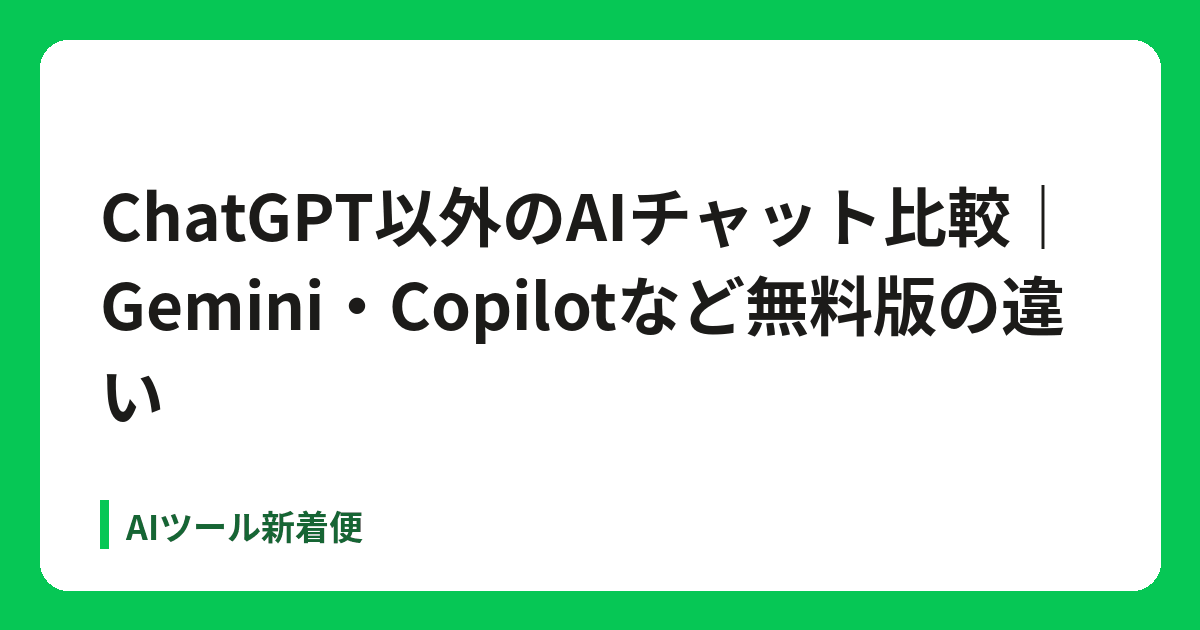
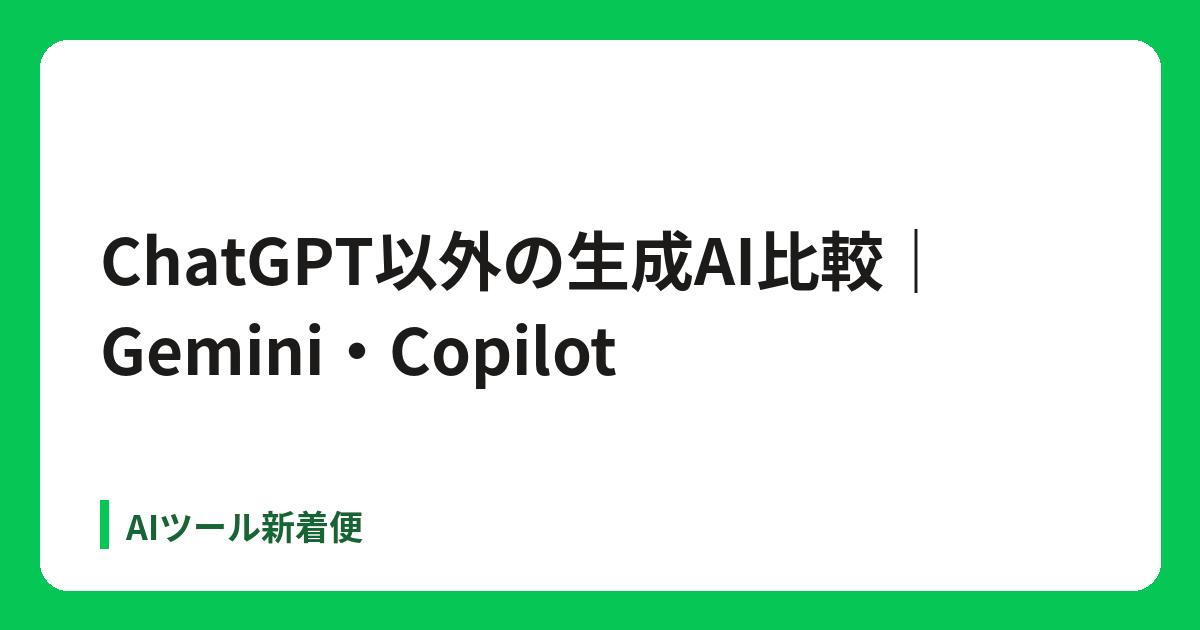
CTR: 検索結果タイトル・説明文をGSCクエリに寄せる
ラクリン評判ほか順位5〜20・0clickページの title/description を更新。
ラクリン工具ページに公式事実のみの「評判について」を追加。

Changed region(s): [[0.0617, 0.3016, 0.8942, 0.6635]]

diff --git a/data/articles.js b/data/articles.js
@@ -65,9 +65,9 @@ module.exports = [
       "gemini",
       "chatgpt"
     ],
-    "title": "GeminiとChatGPTの違い｜無料版の上限と有料プラン",
-    "desc": "GeminiとChatGPTどっちがいい？と迷う人向けに、無料版の上限・画像・Google連携、有料プランの違いを公式料金ページの情報だけで比較しました。申し込み前に最新の料金は公式で確認を。",
-    "body": "<h1>GeminiとChatGPTの違い｜無料版の上限と有料プラン</h1><p class=\"muted\">2026年11月5日にGoogleとOpenAIの公式料金・プランページで確認した内容です。プランの中身や料金は変わることがあるため、申し込み前に最新の料金は公式ページでご確認ください。筆者の使用感ではなく、公式ページに書かれている内容だけをもとにしています。</p>\n<p>「GeminiとChatGPTはどっちがいい？」「無料だとどこまで使える？」「画像は作れる？Googleのサービスと連携したい」といった相談はよくあります。この記事では、<b>無料版でできること・上限の考え方・有料プランの違い・Google連携の有無</b>を、公式のプラン・料金ページをもとに整理します。</p>\n<h2>先に結論：選び方の目安</h2><ul><li><b>無料で回数を気にせず文章のやりとりをしたい、画像も作りたい</b>なら、無料版でもGPT-6のテキストチャットが「無制限（乱用防止の制限あり）」で画像生成もあるChatGPTが候補です。</li><li><b>Gmail・ドキュメント・ドライブなどGoogleのサービスと一緒に使いたい、無料でも画像生成やDeep Researchを試したい</b>なら、無料プランに画像生成・Deep Research・Gemini Liveなどが含まれるGeminiが候補です（使用量は計算量ベースの標準上限）。</li><li><b>長い資料をまとめて読ませたい</b>なら、無料版のコンテキストはGeminiが32,000トークン、ChatGPTのGPT Instantは27K（入力は約12ページ分）です。有料のGemini Pro／Ultraは100万トークンまで広がります。</li><li>どちらも無料で始められるので、同じ質問を両方に投げて比べるのが確実です。</li></ul>\n<h2>無料版の比較表（2026年11月5日 公式で確認）</h2><table><thead><tr><th>項目</th><th>Gemini（無料・AIプランなし）</th><th>ChatGPT（Free）</th></tr></thead><tbody>\n<tr><td>料金</td><td>￥0／月（Googleアカウント）</td><td>無料</td></tr>\n<tr><td>使える量</td><td>標準の上限（計算量ベース）。5時間ごとにリセット（週ごとの上限に達するまで）</td><td>GPT-6でのテキストチャットは無制限（乱用防止の制限あり）。アップロードを含むメッセージは制限あり</td></tr>\n<tr><td>一度に扱える量</td><td>コンテキスト32,000トークン</td><td>GPT Instantはコンテキスト27K、入力は約12ページ分まで</td></tr>\n<tr><td>使えるモデル</td><td>Flash-Lite</td><td>GPT-6 Luna、GPT-5 Thinking Mini など（上位モデルはPlus以上）</td></tr>\n<tr><td>画像の生成</td><td>あり（生成と編集）</td><td>制限あり</td></tr>\n<tr><td>音声での会話</td><td>Gemini Liveあり</td><td>制限あり</td></tr>\n<tr><td>Deep Research</td><td>あり（混雑時は使えない場合あり）</td><td>制限あり</td></tr>\n<tr><td>Google連携</td><td>無料でもGemini Notebook・Flowなど。Gmail／Docsへの組み込みは有料プラン側の案内が中心</td><td>Googleスプレッドシート等向け拡張は制限あり（比較表）</td></tr>\n<tr><td>ストレージ特典</td><td>Gmail・ドライブ・フォト共通15GB</td><td>料金ページにストレージ特典の記載なし</td></tr>\n<tr><td>プログラミング支援</td><td>Canvasなど（アプリ内）</td><td>Codexは制限あり</td></tr>\n</tbody></table>\n<p class=\"muted\">表の「制限あり」は、公式ページに回数などの具体数が示されていないものです。Geminiの1日あたりの質問回数も、公式は回数では示していません。</p>\n<h2>Geminiの無料版でできること</h2><p>日本向けの公式プランページでは、無料プランに次が含まれると書かれています。</p><ul><li>Flash-Liteモデルでのチャット</li><li>画像の生成と編集</li><li>Deep Research、Gemini Live、Canvas、Gem</li><li>Google Flow（Nano Banana Proは制限付き）</li><li>Gemini Notebook</li><li>Gmail・ドライブ・フォト共通の15GBストレージ</li></ul><p>使用量は計算量ベースで、週ごとの上限に達するまで5時間ごとにリセットされます。くわしくは<a href=\"../gemini-muryou-dekirukoto/\">Gemini無料版でできること・上限</a>にもまとめています。</p>\n<h2>ChatGPTの無料版でできること</h2><p>OpenAIの公式料金ページでは、無料版について次のように書かれています。</p><ul><li>GPT-6でのテキストチャットが無制限（乱用防止の制限あり）</li><li>アップロードを含むメッセージ、画像生成、音声での会話、Deep Research、メモリ・コンテキストは制限あり</li><li>Codex、デスクトップのChatGPT Workは制限つきで利用可</li><li>検索、プロジェクトは利用可</li></ul><p>ChatGPTの無料版の詳しい中身は<a href=\"../chatgpt-muryou-dekirukoto/\">ChatGPT無料版でできることと上限</a>にもまとめています。</p>\n<h2>有料プランの違い</h2><table><thead><tr><th>プラン</th><th>料金（公式ページの表記）</th><th>主な違い</th></tr></thead><tbody>\n<tr><td>Google AI Plus</td><td>￥725／月</td><td>無料の2倍の使用量。Flashモデル、動画生成など。コンテキスト128,000トークン。ストレージ400GB。Gemini in Gmail／Vidsなど</td></tr>\n<tr><td>Google AI Pro</td><td>￥2,900／月</td><td>無料の4倍の使用量。Proモデル・Gemini 4 Argon。コンテキスト100万トークン。ストレージ5TB。YouTube Premium Liteなど</td></tr>\n<tr><td>Google AI Ultra</td><td>￥14,500／月（AI Proの5倍）または￥32,000／月（20倍）</td><td>Proの内容に加え最上位の使用量。ストレージ20TB〜。YouTube Premium個人プランなど</td></tr>\n<tr><td>ChatGPT Go</td><td>最新の料金は公式ページでご確認ください</td><td>ツールを使うメッセージ・アップロード・画像生成・音声が増え、メモリが長くなる。広告が表示される場合あり</td></tr>\n<tr><td>ChatGPT Plus</td><td>最新の料金は公式ページでご確認ください</td><td>GPT-6の高度な推論モデル、メッセージ・アップロード・Deep Researchの拡大、プロジェクト・予約タスク・カスタムGPT</td></tr>\n<tr><td>ChatGPT Pro</td><td>最新の料金は公式ページでご確認ください</td><td>利用量に応じて選べる3つのティア。GPT-6 AstraによるPro推論、画像生成は無制限（乱用防止の制限あり）、Deep Research最大</td></tr>\n</tbody></table>\n<p class=\"muted\">ChatGPTの料金ページは、確認時に金額の部分を読み取れなかったため、金額は載せていません。Geminiの日本向け金額は gemini.google/jp/subscriptions/ の表記です。ドル表記や為替・税によって支払額が変わる場合があります。</p>\n<h2>こんな人はGemini、こんな人はChatGPT</h2><ul><li><b>Geminiが向いている人</b>：すでにGoogleアカウントでGmailやドライブを使っていて、同じアカウントでAIも試したい人。無料でも画像生成やDeep Research、声での会話（Gemini Live）を使いたい人。有料でコンテキストを100万トークンまで広げたい人。</li><li><b>ChatGPTが向いている人</b>：無料版で回数を気にせず文章のやりとりをしたい人。画像生成や音声・Deep Research・Codexも1つのアプリで少しずつ試したい人。</li></ul>\n<h2>向いていない人と代わりの選択肢</h2><ul><li><b>Geminiの無料版が向いていない人</b>：回数を気にせず長時間チャットしたい人は、計算量ベースの標準上限に届きやすくなります。無料でテキストチャットを無制限に近い形で使いたいならChatGPT無料版、または<a href=\"../claude-chatgpt-muryou-chigai/\">ClaudeとChatGPTの違い</a>も参考にしてください。</li><li><b>ChatGPTの無料版が向いていない人</b>：長いPDFをそのまま読ませたい人は、無料版の入力上限（約12ページ分）に注意が必要です。手元の資料の中身だけをもとに要約・質問したいなら<a href=\"../notebooklm-chatgpt-youyaku-hikaku/\">NotebookLMとChatGPTの要約比較</a>を参考にしてください。</li><li><b>どちらも合わない人</b>：無料で使えるAIを広く見たい場合は<a href=\"../muryou-ai-tool-ichiran/\">無料で使えるAIツール一覧</a>をどうぞ。</li></ul>\n<h2>無料版を使うときの注意点</h2><ul><li>AIの答えには誤りが含まれることがあります。数字・固有名詞・日付は元の資料や公式情報で確かめてから使いましょう。</li><li>仕事の資料を入れる前に、学習への利用設定やアカウントの種類（個人／仕事用）を確認しましょう。</li><li>無料版の上限や使えるモデルは、予告なく変わることがあります。</li></ul>\n<h2>関連記事</h2><p><a href=\"../gemini-muryou-dekirukoto/\">Gemini無料版でできること・上限</a>／<a href=\"../chatgpt-muryou-dekirukoto/\">ChatGPT無料版でできることと上限</a>／<a href=\"../claude-chatgpt-muryou-chigai/\">ClaudeとChatGPTの違い</a>／<a href=\"../notebooklm-chatgpt-youyaku-hikaku/\">NotebookLMとChatGPTの要約比較</a>／<a href=\"../muryou-ai-tool-ichiran/\">無料で使えるAIツール一覧</a>／<a href=\"../../tools/gemini/\">Geminiのツールページ</a>／<a href=\"../../tools/chatgpt/\">ChatGPTのツールページ</a></p>\n<h2>出典（公式・2026年11月5日確認）</h2><pre><code>https://gemini.google/jp/subscriptions/\nhttps://gemini.google/subscriptions/\nhttps://support.google.com/gemini/answer/16275805?hl=ja\nhttps://chatgpt.com/pricing/\nhttps://openai.com/ja-JP/chatgpt/pricing/</code></pre>"
+    "title": "GeminiとChatGPTの無料の違い｜上限とできること",
+    "desc": "GeminiとChatGPTの無料版の違いを公式料金ページだけで整理。無料の上限、画像生成、Google連携、有料プランの差が分かります。申し込み前に最新の料金は公式で確認を。",
+    "body": "<h1>GeminiとChatGPTの無料の違い｜上限とできること</h1><p class=\"muted\">2026年11月5日にGoogleとOpenAIの公式料金・プランページで確認した内容です。プランの中身や料金は変わることがあるため、申し込み前に最新の料金は公式ページでご確認ください。筆者の使用感ではなく、公式ページに書かれている内容だけをもとにしています。</p>\n<p>「GeminiとChatGPTはどっちがいい？」「無料だとどこまで使える？」「画像は作れる？Googleのサービスと連携したい」といった相談はよくあります。この記事では、<b>無料版でできること・上限の考え方・有料プランの違い・Google連携の有無</b>を、公式のプラン・料金ページをもとに整理します。</p>\n<h2>先に結論：選び方の目安</h2><ul><li><b>無料で回数を気にせず文章のやりとりをしたい、画像も作りたい</b>なら、無料版でもGPT-6のテキストチャットが「無制限（乱用防止の制限あり）」で画像生成もあるChatGPTが候補です。</li><li><b>Gmail・ドキュメント・ドライブなどGoogleのサービスと一緒に使いたい、無料でも画像生成やDeep Researchを試したい</b>なら、無料プランに画像生成・Deep Research・Gemini Liveなどが含まれるGeminiが候補です（使用量は計算量ベースの標準上限）。</li><li><b>長い資料をまとめて読ませたい</b>なら、無料版のコンテキストはGeminiが32,000トークン、ChatGPTのGPT Instantは27K（入力は約12ページ分）です。有料のGemini Pro／Ultraは100万トークンまで広がります。</li><li>どちらも無料で始められるので、同じ質問を両方に投げて比べるのが確実です。</li></ul>\n<h2>無料版の比較表（2026年11月5日 公式で確認）</h2><table><thead><tr><th>項目</th><th>Gemini（無料・AIプランなし）</th><th>ChatGPT（Free）</th></tr></thead><tbody>\n<tr><td>料金</td><td>￥0／月（Googleアカウント）</td><td>無料</td></tr>\n<tr><td>使える量</td><td>標準の上限（計算量ベース）。5時間ごとにリセット（週ごとの上限に達するまで）</td><td>GPT-6でのテキストチャットは無制限（乱用防止の制限あり）。アップロードを含むメッセージは制限あり</td></tr>\n<tr><td>一度に扱える量</td><td>コンテキスト32,000トークン</td><td>GPT Instantはコンテキスト27K、入力は約12ページ分まで</td></tr>\n<tr><td>使えるモデル</td><td>Flash-Lite</td><td>GPT-6 Luna、GPT-5 Thinking Mini など（上位モデルはPlus以上）</td></tr>\n<tr><td>画像の生成</td><td>あり（生成と編集）</td><td>制限あり</td></tr>\n<tr><td>音声での会話</td><td>Gemini Liveあり</td><td>制限あり</td></tr>\n<tr><td>Deep Research</td><td>あり（混雑時は使えない場合あり）</td><td>制限あり</td></tr>\n<tr><td>Google連携</td><td>無料でもGemini Notebook・Flowなど。Gmail／Docsへの組み込みは有料プラン側の案内が中心</td><td>Googleスプレッドシート等向け拡張は制限あり（比較表）</td></tr>\n<tr><td>ストレージ特典</td><td>Gmail・ドライブ・フォト共通15GB</td><td>料金ページにストレージ特典の記載なし</td></tr>\n<tr><td>プログラミング支援</td><td>Canvasなど（アプリ内）</td><td>Codexは制限あり</td></tr>\n</tbody></table>\n<p class=\"muted\">表の「制限あり」は、公式ページに回数などの具体数が示されていないものです。Geminiの1日あたりの質問回数も、公式は回数では示していません。</p>\n<h2>Geminiの無料版でできること</h2><p>日本向けの公式プランページでは、無料プランに次が含まれると書かれています。</p><ul><li>Flash-Liteモデルでのチャット</li><li>画像の生成と編集</li><li>Deep Research、Gemini Live、Canvas、Gem</li><li>Google Flow（Nano Banana Proは制限付き）</li><li>Gemini Notebook</li><li>Gmail・ドライブ・フォト共通の15GBストレージ</li></ul><p>使用量は計算量ベースで、週ごとの上限に達するまで5時間ごとにリセットされます。くわしくは<a href=\"../gemini-muryou-dekirukoto/\">Gemini無料版でできること・上限</a>にもまとめています。</p>\n<h2>ChatGPTの無料版でできること</h2><p>OpenAIの公式料金ページでは、無料版について次のように書かれています。</p><ul><li>GPT-6でのテキストチャットが無制限（乱用防止の制限あり）</li><li>アップロードを含むメッセージ、画像生成、音声での会話、Deep Research、メモリ・コンテキストは制限あり</li><li>Codex、デスクトップのChatGPT Workは制限つきで利用可</li><li>検索、プロジェクトは利用可</li></ul><p>ChatGPTの無料版の詳しい中身は<a href=\"../chatgpt-muryou-dekirukoto/\">ChatGPT無料版でできることと上限</a>にもまとめています。</p>\n<h2>有料プランの違い</h2><table><thead><tr><th>プラン</th><th>料金（公式ページの表記）</th><th>主な違い</th></tr></thead><tbody>\n<tr><td>Google AI Plus</td><td>￥725／月</td><td>無料の2倍の使用量。Flashモデル、動画生成など。コンテキスト128,000トークン。ストレージ400GB。Gemini in Gmail／Vidsなど</td></tr>\n<tr><td>Google AI Pro</td><td>￥2,900／月</td><td>無料の4倍の使用量。Proモデル・Gemini 4 Argon。コンテキスト100万トークン。ストレージ5TB。YouTube Premium Liteなど</td></tr>\n<tr><td>Google AI Ultra</td><td>￥14,500／月（AI Proの5倍）または￥32,000／月（20倍）</td><td>Proの内容に加え最上位の使用量。ストレージ20TB〜。YouTube Premium個人プランなど</td></tr>\n<tr><td>ChatGPT Go</td><td>最新の料金は公式ページでご確認ください</td><td>ツールを使うメッセージ・アップロード・画像生成・音声が増え、メモリが長くなる。広告が表示される場合あり</td></tr>\n<tr><td>ChatGPT Plus</td><td>最新の料金は公式ページでご確認ください</td><td>GPT-6の高度な推論モデル、メッセージ・アップロード・Deep Researchの拡大、プロジェクト・予約タスク・カスタムGPT</td></tr>\n<tr><td>ChatGPT Pro</td><td>最新の料金は公式ページでご確認ください</td><td>利用量に応じて選べる3つのティア。GPT-6 AstraによるPro推論、画像生成は無制限（乱用防止の制限あり）、Deep Research最大</td></tr>\n</tbody></table>\n<p class=\"muted\">ChatGPTの料金ページは、確認時に金額の部分を読み取れなかったため、金額は載せていません。Geminiの日本向け金額は gemini.google/jp/subscriptions/ の表記です。ドル表記や為替・税によって支払額が変わる場合があります。</p>\n<h2>こんな人はGemini、こんな人はChatGPT</h2><ul><li><b>Geminiが向いている人</b>：すでにGoogleアカウントでGmailやドライブを使っていて、同じアカウントでAIも試したい人。無料でも画像生成やDeep Research、声での会話（Gemini Live）を使いたい人。有料でコンテキストを100万トークンまで広げたい人。</li><li><b>ChatGPTが向いている人</b>：無料版で回数を気にせず文章のやりとりをしたい人。画像生成や音声・Deep Research・Codexも1つのアプリで少しずつ試したい人。</li></ul>\n<h2>向いていない人と代わりの選択肢</h2><ul><li><b>Geminiの無料版が向いていない人</b>：回数を気にせず長時間チャットしたい人は、計算量ベースの標準上限に届きやすくなります。無料でテキストチャットを無制限に近い形で使いたいならChatGPT無料版、または<a href=\"../claude-chatgpt-muryou-chigai/\">ClaudeとChatGPTの違い</a>も参考にしてください。</li><li><b>ChatGPTの無料版が向いていない人</b>：長いPDFをそのまま読ませたい人は、無料版の入力上限（約12ページ分）に注意が必要です。手元の資料の中身だけをもとに要約・質問したいなら<a href=\"../notebooklm-chatgpt-youyaku-hikaku/\">NotebookLMとChatGPTの要約比較</a>を参考にしてください。</li><li><b>どちらも合わない人</b>：無料で使えるAIを広く見たい場合は<a href=\"../muryou-ai-tool-ichiran/\">無料で使えるAIツール一覧</a>をどうぞ。</li></ul>\n<h2>無料版を使うときの注意点</h2><ul><li>AIの答えには誤りが含まれることがあります。数字・固有名詞・日付は元の資料や公式情報で確かめてから使いましょう。</li><li>仕事の資料を入れる前に、学習への利用設定やアカウントの種類（個人／仕事用）を確認しましょう。</li><li>無料版の上限や使えるモデルは、予告なく変わることがあります。</li></ul>\n<h2>関連記事</h2><p><a href=\"../gemini-muryou-dekirukoto/\">Gemini無料版でできること・上限</a>／<a href=\"../chatgpt-muryou-dekirukoto/\">ChatGPT無料版でできることと上限</a>／<a href=\"../claude-chatgpt-muryou-chigai/\">ClaudeとChatGPTの違い</a>／<a href=\"../notebooklm-chatgpt-youyaku-hikaku/\">NotebookLMとChatGPTの要約比較</a>／<a href=\"../muryou-ai-tool-ichiran/\">無料で使えるAIツール一覧</a>／<a href=\"../../tools/gemini/\">Geminiのツールページ</a>／<a href=\"../../tools/chatgpt/\">ChatGPTのツールページ</a></p>\n<h2>出典（公式・2026年11月5日確認）</h2><pre><code>https://gemini.google/jp/subscriptions/\nhttps://gemini.google/subscriptions/\nhttps://support.google.com/gemini/answer/16275805?hl=ja\nhttps://chatgpt.com/pricing/\nhttps://openai.com/ja-JP/chatgpt/pricing/</code></pre>"
   },
   {
     "slug": "ai-onsei-deepfake-sagi-miwakekata",
@@ -545,10 +545,10 @@ module.exports = [
       "chatgpt"
     ],
     "date": "2026-10-20",
-    "title": "ChatGPT以外のAIチャット比較｜Gemini・Copilotなど無料版の違い",
+    "title": "ChatGPT以外の生成AI比較｜Gemini・Copilot",
     "updated": "2026-10-30",
-    "desc": "ChatGPTの代わりやセカンドオピニオンに使えるAIを、公式サイトで確認した無料版・有料プラン・日本語対応で比較。調べもの、資料の読み込み、Office連携など目的別の選び方を紹介します。",
-    "body": "<h1>ChatGPT以外のAIチャット比較：無料版と使い分け</h1><p class=\"muted\">更新日：2026年10月20日。料金・機能は2026年10月16〜20日に各公式サイトで確認した内容です（当サイトの各ツールページの「情報確認日」も参照）。変更されることがあるため、申し込み前に必ず公式サイトをご確認ください。</p>\n<p>「ChatGPT 代わり」「ChatGPT 以外」で探す人向けに、無料で始められるAIを目的別に整理しました。1つに絞るより、<b>得意分野で使い分ける</b>のがおすすめです。</p>\n<h2>比較表</h2><table><tr><th>ツール</th><td><b>無料版</b>／<b>有料の例</b>／<b>日本語</b>／<b>向いている使い方</b></td></tr>\n<tr><th><a href=\"../../tools/chatgpt/\">ChatGPT</a>（参考）</th><td>無料版あり／Go・Plus・Pro（最新の料金は公式ページでご確認ください）／日本語の公式料金ページあり／汎用</td></tr>\n<tr><th><a href=\"../../tools/gemini/\">Google Gemini</a></th><td>無料（￥0）／Google AI Plus ￥725・Pro ￥2,900・Ultra ￥14,500〜（月額）／日本語の料金ページあり／Googleサービスと一緒に使う、文章の下書き</td></tr>\n<tr><th><a href=\"../../tools/copilot/\">Microsoft Copilot</a></th><td>無料版あり／Copilot付きMicrosoft 365 Personal ¥2,130（月額）ほか／日本語の公式ページあり／WordやExcelなどOfficeと一緒に使う</td></tr>\n<tr><th><a href=\"../../tools/felo/\">Felo</a></th><td>無料で使える旨の表記あり／有料 月額2,099円（年払い20,998円）／対応（日本語の公式サイト・円表示）／出典つきの調べもの</td></tr>\n<tr><th><a href=\"../../tools/genspark/\">Genspark</a></th><td>無料で試せる旨の表記あり／有料プランの金額は最新の料金を公式ページでご確認ください／対応（日本語の公式サイト）／調べものや資料作りをまとめて任せる</td></tr>\n<tr><th><a href=\"../../tools/notebooklm/\">NotebookLM</a></th><td>無料（1ノートブックあたりソース50件まで）／Google AI Plus・Pro・Ultraで上限拡大／日本語の公式ページあり／手持ちのPDFや資料を読み込ませて質問</td></tr>\n<tr><th><a href=\"../../tools/sarashina-service/\">Sarashina（無償ベータ）</a></th><td>無償ベータ版（レート制限あり）／有料の料金は公式サイトに記載なし／国産・日本語の公式発表／国産AIを試したい</td></tr></table>\n<h2>用途別の早見表：どれに決めるか</h2><p class=\"muted\">表の内容は、この記事で2026年10月16〜20日に各公式サイトで確認した情報にもとづきます。</p><table><thead><tr><th>やりたいこと</th><th>おすすめ</th><th>理由</th></tr></thead><tbody><tr><td>出典つきで調べものをしたい</td><td><a href=\"../../tools/felo/\">Felo</a></td><td>無料で使える旨の表記があり、出典つきの調べものに向いています。</td></tr><tr><td>自分のPDFや資料について質問したい</td><td><a href=\"../../tools/notebooklm/\">NotebookLM</a></td><td>無料で1ノートブックあたりソース50件まで資料を読み込んで質問できます。</td></tr><tr><td>Gmail・GoogleドキュメントなどGoogle中心で使いたい</td><td><a href=\"../../tools/gemini/\">Google Gemini</a></td><td>無料（￥0）で始められ、Googleサービスと一緒に使えます。</td></tr><tr><td>Word・Excel・PowerPointと一緒に使いたい</td><td><a href=\"../../tools/copilot/\">Microsoft Copilot</a></td><td>無料版があり、Officeと一緒に使う用途に向いています。</td></tr><tr><td>調べものや資料作りをまとめて任せたい</td><td><a href=\"../../tools/genspark/\">Genspark</a></td><td>無料で試せる旨の表記があり、調べものと資料作りをまとめて任せられます。</td></tr><tr><td>国産のAIを試したい</td><td><a href=\"../../tools/sarashina-service/\">Sarashina</a></td><td>無償ベータ版が公開されています（レート制限あり）。</td></tr></tbody></table><h2>目的別の選び方</h2><ul><li><b>調べものの答えに出典がほしい</b>：Felo</li><li><b>自分の資料（PDF・議事録）について質問したい</b>：NotebookLM</li><li><b>Gmail・GoogleドキュメントなどGoogle中心</b>：Gemini</li><li><b>Word・Excel・PowerPoint中心</b>：Copilot</li><li><b>国産AIを試したい</b>：Sarashina</li></ul>\n<h2>使い方のコツ</h2><ol><li>同じ質問を2つのAIに聞き、答えが違うところだけ一次情報（公式サイトなど）で確かめると、誤りに気づきやすくなります。</li><li>「誰向けに・何文字で・箇条書きで」など、出力の形を指定します。</li><li>長い資料は、全文を貼るよりNotebookLMのように資料を読み込むツールが向いています。</li></ol>\n<h2>注意点</h2><ul><li>AIの回答には誤りが含まれることがあります。数字・日付・法律・医療などは必ず一次情報で確認してください。</li><li>仕事の機密情報を入力する前に、各社のデータの扱い（学習への利用の有無、法人向けプランの条件）を確認してください。</li><li>無料版の回数制限や使えるモデルは予告なく変わることがあります。</li></ul>\n<h2>関連</h2><p><a href=\"../notebooklm-muryou-jougen/\">NotebookLM（Gemini Notebook）無料版の上限</a>／<a href=\"../../tools/japan-ai-search-3/\">JAPAN AI Search 3.0のツールページ</a>／<a href=\"../../category/%E3%83%81%E3%83%A3%E3%83%83%E3%83%88AI/\">チャットAIの一覧</a>／<a href=\"../../category/%E3%83%AA%E3%82%B5%E3%83%BC%E3%83%81/\">リサーチのAIツール一覧</a>／<a href=\"../muryou-ai-tool-ichiran/\">無料で使えるAIツール一覧</a>／<a href=\"../chatgpt-muryou-dekirukoto/\">ChatGPT無料版でできること</a>／<a href=\"../gemini-muryou-dekirukoto/\">Gemini無料版の上限</a>／<a href=\"../claude-haiku-5-5/\">Claude Haiku 5.5の料金とできること</a></p>\n<p>記事やブログを書くのが目的なら<a href=\"../ai-writing-tool-hikaku/\">AIライティングツール比較</a>も参考にしてください。</p><p>仕事で複数のAIモデルを1つの画面で使い分けたい場合は、執筆・リサーチ・議事録・翻訳をまとめた<a href=\"../../tools/doraverse/\">Doraverse</a>もあります（14日間の無料トライアルあり）。</p><h2>この記事の更新履歴</h2><ul><li>2026年10月16〜20日：各公式サイトで料金・機能を確認して公開</li><li>2026年10月30日：用途別の早見表と、この更新履歴を追加</li></ul><h2>出典（公式）</h2><ul><li><a href=\"https://gemini.google.com\" rel=\"noopener\">https://gemini.google.com</a></li><li><a href=\"https://copilot.microsoft.com\" rel=\"noopener\">https://copilot.microsoft.com</a></li><li><a href=\"https://www.felo.ai\" rel=\"noopener\">https://www.felo.ai</a></li><li><a href=\"https://www.genspark.ai\" rel=\"noopener\">https://www.genspark.ai</a></li><li><a href=\"https://notebooklm.google\" rel=\"noopener\">https://notebooklm.google</a></li><li><a href=\"https://chatgpt.com\" rel=\"noopener\">https://chatgpt.com</a></li><li><a href=\"https://www.sbintuitions.co.jp/news/press/20261013_01/\" rel=\"noopener\">https://www.sbintuitions.co.jp/news/press/20261013_01/</a></li></ul>"
+    "desc": "ChatGPT以外の生成AI（Gemini・Copilot・Felo・NotebookLMなど）を、公式の無料版・有料プラン・日本語対応で比較。調べもの・資料読み込み・Office連携など目的別の選び方。",
+    "body": "<h1>ChatGPT以外の生成AI比較：無料版と使い分け</h1><p class=\"muted\">更新日：2026年10月20日。料金・機能は2026年10月16〜20日に各公式サイトで確認した内容です（当サイトの各ツールページの「情報確認日」も参照）。変更されることがあるため、申し込み前に必ず公式サイトをご確認ください。</p>\n<p>「ChatGPT 代わり」「ChatGPT 以外」で探す人向けに、無料で始められるAIを目的別に整理しました。1つに絞るより、<b>得意分野で使い分ける</b>のがおすすめです。</p>\n<h2>比較表</h2><table><tr><th>ツール</th><td><b>無料版</b>／<b>有料の例</b>／<b>日本語</b>／<b>向いている使い方</b></td></tr>\n<tr><th><a href=\"../../tools/chatgpt/\">ChatGPT</a>（参考）</th><td>無料版あり／Go・Plus・Pro（最新の料金は公式ページでご確認ください）／日本語の公式料金ページあり／汎用</td></tr>\n<tr><th><a href=\"../../tools/gemini/\">Google Gemini</a></th><td>無料（￥0）／Google AI Plus ￥725・Pro ￥2,900・Ultra ￥14,500〜（月額）／日本語の料金ページあり／Googleサービスと一緒に使う、文章の下書き</td></tr>\n<tr><th><a href=\"../../tools/copilot/\">Microsoft Copilot</a></th><td>無料版あり／Copilot付きMicrosoft 365 Personal ¥2,130（月額）ほか／日本語の公式ページあり／WordやExcelなどOfficeと一緒に使う</td></tr>\n<tr><th><a href=\"../../tools/felo/\">Felo</a></th><td>無料で使える旨の表記あり／有料 月額2,099円（年払い20,998円）／対応（日本語の公式サイト・円表示）／出典つきの調べもの</td></tr>\n<tr><th><a href=\"../../tools/genspark/\">Genspark</a></th><td>無料で試せる旨の表記あり／有料プランの金額は最新の料金を公式ページでご確認ください／対応（日本語の公式サイト）／調べものや資料作りをまとめて任せる</td></tr>\n<tr><th><a href=\"../../tools/notebooklm/\">NotebookLM</a></th><td>無料（1ノートブックあたりソース50件まで）／Google AI Plus・Pro・Ultraで上限拡大／日本語の公式ページあり／手持ちのPDFや資料を読み込ませて質問</td></tr>\n<tr><th><a href=\"../../tools/sarashina-service/\">Sarashina（無償ベータ）</a></th><td>無償ベータ版（レート制限あり）／有料の料金は公式サイトに記載なし／国産・日本語の公式発表／国産AIを試したい</td></tr></table>\n<h2>用途別の早見表：どれに決めるか</h2><p class=\"muted\">表の内容は、この記事で2026年10月16〜20日に各公式サイトで確認した情報にもとづきます。</p><table><thead><tr><th>やりたいこと</th><th>おすすめ</th><th>理由</th></tr></thead><tbody><tr><td>出典つきで調べものをしたい</td><td><a href=\"../../tools/felo/\">Felo</a></td><td>無料で使える旨の表記があり、出典つきの調べものに向いています。</td></tr><tr><td>自分のPDFや資料について質問したい</td><td><a href=\"../../tools/notebooklm/\">NotebookLM</a></td><td>無料で1ノートブックあたりソース50件まで資料を読み込んで質問できます。</td></tr><tr><td>Gmail・GoogleドキュメントなどGoogle中心で使いたい</td><td><a href=\"../../tools/gemini/\">Google Gemini</a></td><td>無料（￥0）で始められ、Googleサービスと一緒に使えます。</td></tr><tr><td>Word・Excel・PowerPointと一緒に使いたい</td><td><a href=\"../../tools/copilot/\">Microsoft Copilot</a></td><td>無料版があり、Officeと一緒に使う用途に向いています。</td></tr><tr><td>調べものや資料作りをまとめて任せたい</td><td><a href=\"../../tools/genspark/\">Genspark</a></td><td>無料で試せる旨の表記があり、調べものと資料作りをまとめて任せられます。</td></tr><tr><td>国産のAIを試したい</td><td><a href=\"../../tools/sarashina-service/\">Sarashina</a></td><td>無償ベータ版が公開されています（レート制限あり）。</td></tr></tbody></table><h2>目的別の選び方</h2><ul><li><b>調べものの答えに出典がほしい</b>：Felo</li><li><b>自分の資料（PDF・議事録）について質問したい</b>：NotebookLM</li><li><b>Gmail・GoogleドキュメントなどGoogle中心</b>：Gemini</li><li><b>Word・Excel・PowerPoint中心</b>：Copilot</li><li><b>国産AIを試したい</b>：Sarashina</li></ul>\n<h2>使い方のコツ</h2><ol><li>同じ質問を2つのAIに聞き、答えが違うところだけ一次情報（公式サイトなど）で確かめると、誤りに気づきやすくなります。</li><li>「誰向けに・何文字で・箇条書きで」など、出力の形を指定します。</li><li>長い資料は、全文を貼るよりNotebookLMのように資料を読み込むツールが向いています。</li></ol>\n<h2>注意点</h2><ul><li>AIの回答には誤りが含まれることがあります。数字・日付・法律・医療などは必ず一次情報で確認してください。</li><li>仕事の機密情報を入力する前に、各社のデータの扱い（学習への利用の有無、法人向けプランの条件）を確認してください。</li><li>無料版の回数制限や使えるモデルは予告なく変わることがあります。</li></ul>\n<h2>関連</h2><p><a href=\"../notebooklm-muryou-jougen/\">NotebookLM（Gemini Notebook）無料版の上限</a>／<a href=\"../../tools/japan-ai-search-3/\">JAPAN AI Search 3.0のツールページ</a>／<a href=\"../../category/%E3%83%81%E3%83%A3%E3%83%83%E3%83%88AI/\">チャットAIの一覧</a>／<a href=\"../../category/%E3%83%AA%E3%82%B5%E3%83%BC%E3%83%81/\">リサーチのAIツール一覧</a>／<a href=\"../muryou-ai-tool-ichiran/\">無料で使えるAIツール一覧</a>／<a href=\"../chatgpt-muryou-dekirukoto/\">ChatGPT無料版でできること</a>／<a href=\"../gemini-muryou-dekirukoto/\">Gemini無料版の上限</a>／<a href=\"../claude-haiku-5-5/\">Claude Haiku 5.5の料金とできること</a></p>\n<p>記事やブログを書くのが目的なら<a href=\"../ai-writing-tool-hikaku/\">AIライティングツール比較</a>も参考にしてください。</p><p>仕事で複数のAIモデルを1つの画面で使い分けたい場合は、執筆・リサーチ・議事録・翻訳をまとめた<a href=\"../../tools/doraverse/\">Doraverse</a>もあります（14日間の無料トライアルあり）。</p><h2>この記事の更新履歴</h2><ul><li>2026年10月16〜20日：各公式サイトで料金・機能を確認して公開</li><li>2026年10月30日：用途別の早見表と、この更新履歴を追加</li></ul><h2>出典（公式）</h2><ul><li><a href=\"https://gemini.google.com\" rel=\"noopener\">https://gemini.google.com</a></li><li><a href=\"https://copilot.microsoft.com\" rel=\"noopener\">https://copilot.microsoft.com</a></li><li><a href=\"https://www.felo.ai\" rel=\"noopener\">https://www.felo.ai</a></li><li><a href=\"https://www.genspark.ai\" rel=\"noopener\">https://www.genspark.ai</a></li><li><a href=\"https://notebooklm.google\" rel=\"noopener\">https://notebooklm.google</a></li><li><a href=\"https://chatgpt.com\" rel=\"noopener\">https://chatgpt.com</a></li><li><a href=\"https://www.sbintuitions.co.jp/news/press/20261013_01/\" rel=\"noopener\">https://www.sbintuitions.co.jp/news/press/20261013_01/</a></li></ul>"
   },
   {
     "slug": "value-ai-writer-ryoukin-hyouban",
